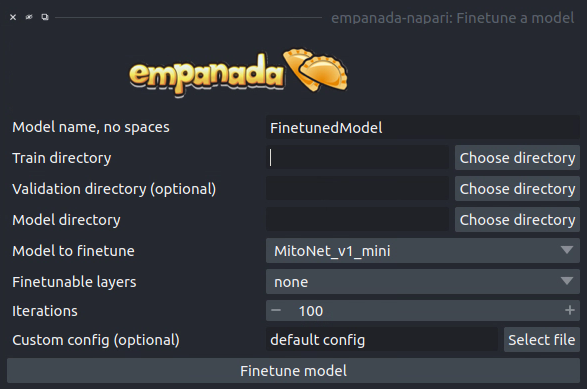
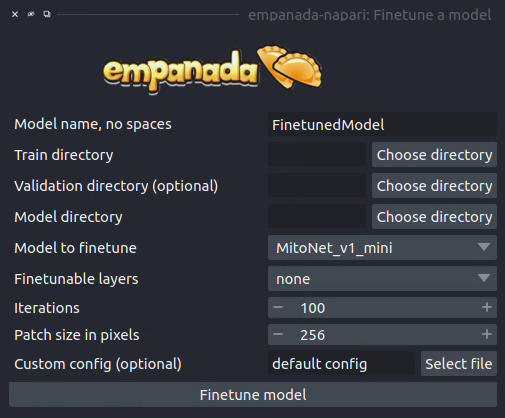
finished tutorials

diff --git a/docs/empanada-napari.rst b/docs/empanada-napari.rst
@@ -105,6 +105,9 @@ and greater robustness.
 modules. Models can be registered from .pth files or from web URLs. Useful for
 sharing models locally or over the internet.
 
+`Get model info`_: Get information about registered models to help decide which one
+is appropriate for inference or finetuning. 
+
 Proofreading Tools
 ^^^^^^^^^^^^^^^^^^^^
 
@@ -167,6 +170,14 @@ on the workstation, then this parameter is ignored.
 **Use quantized model:** Whether to use a quantized version of the segmentation model.
 The quantized model only runs on CPU but uses ~4x less memory and runs 20-50% faster (depending
 on the model architecture). Results may be 1-2% worse than using the non-quantized version.
+
+**Output to layer:** If checked, the output of the model will be inserted into the given
+output layer (next argument). This argument is incompatible with Batch mode and will raise
+an error if both are checked.
+
+**output layer:** If Output to layer is checked, the output of the model will be inserted
+into this layer, otherwise a new layer will be created. The output layer must be the same
+shape as the image layer.
 
 See `Inference Best Practices`_ below for more usage notes.
 
@@ -455,6 +466,10 @@ finetuning.
 
 **Iterations:** Number of iterations to finetune the model.
 
+**Patch size in pixels:** Patch size in pixels to use for random cropping of the image during finetuning.
+Should be divisible by 16 for PanopticDeepLab model or 128 for PanopticBiFPN models. Use `Get model info`_ to
+check.
+
 **Custom config (optional):** Use a custom config file to set other training
 hyperparameters. `See here for a template to modify <https://github.com/volume-em/empanada-napari/blob/train/custom_configs/custom_finetuning.yaml>`_.
 
@@ -507,8 +522,14 @@ training. Ignored if **Use CEM pretrained weights** isn't checked.
 
 **Iterations:** Number of iterations to train the model.
 
+**Patch size in pixels:** Patch size in pixels to use for random cropping of the image during finetuning.
+Should be divisible by 16 for PanopticDeepLab model or 128 for PanopticBiFPN models.
+
 **Custom config (optional):** Use a custom config file to set other model and training
 hyperparameters. `See here for a template to modify <https://github.com/volume-em/empanada-napari/blob/train/custom_configs/custom_training_pdl.yaml>`_.
+
+**Description:** Free form text description of the model including details about the training data, model purpose,
+and other relevant information. 
 
 Register new model
 ====================
@@ -546,6 +567,24 @@ If the path/url given in the config file is correct this is unnecessary.
 
   Removing models is manual. Simply delete or move the config file from `~/.empanada/configs`.
 
+Get model info
+====================
+
+.. image:: _static/get_info.png
+  :align: center
+  :width: 500px
+  :alt: Dialog for the get info module.
+
+Results
+^^^^^^^^^^^^^
+
+Prints information about the model to the terminal.
+
+Parameters
+^^^^^^^^^^^^^^^^
+
+**Model name:** Name of the model to get information about. 
+  
 Merge and Delete labels
 =============================
 
@@ -625,7 +664,7 @@ Tutorials
 Inference on 2D images
 ^^^^^^^^^^^^^^^^^^^^^^^^
 
-To get started, `download some example TEM images <https://www.dropbox.com/s/t9z8v2j06ttlhng/empanada_tem.zip?dl=1>`_.
+To get started, `download some example TEM images <https://www.dropbox.com/s/t9z8v2j06ttlhng/empanada_tem.zip?dl=0>`_.
 
 If you installed napari into a virtual environment as suggested in `Installation`_, be sure to activate it::
 
@@ -666,7 +705,7 @@ should look something like this (click the image for high-res):
 
 .. image:: _static/compare_2d_full.png
   :align: center
-  :width: 800px
+  :width: 100%
 
 The results are best without any downsampling but are still quite good even with 4x downsampling. As a rule, too
 much downsampling will result in more false positive detections and more false negatives
@@ -676,7 +715,7 @@ As a counterpoint look at the effect of downsampling on the second image in the 
 
 .. image:: _static/downsampling_better.png
   :align: center
-  :width: 600px
+  :width: 100%
 
 Here downsampling by a factor of 2 significantly reduces oversplitting errors and results in a better
 pixel-level segmentation. Plus, the smaller image size means that model inference will
@@ -697,19 +736,19 @@ better segmentation.
 
 .. image:: _static/mini_compare.png
   :align: center
-  :width: 600px
+  :width: 100%
 
 
 Using Batch Mode
 """""""""""""""""""""""""""
 
-Batch mode let's you run inference with a given configuration on all images in the
-stack. Running with the options shown below will create 5 segmentation layers (i.e.,
-one for each image).
-
 .. image:: _static/select_batch_mode.png
   :align: left
   :width: 50%
+
+Batch mode let's you run inference with a given configuration on all images in the
+stack. Running with the options shown on left will create 5 segmentation layers (i.e.,
+one for each image).
 
 
 Proofreading in 2D
@@ -724,7 +763,7 @@ panel (**a**). Paint and erase options are denoted by the blue and red arrows in
 
 .. image:: _static/paint_erase.png
   :align: center
-  :width: 800px
+  :width: 100%
 
 To run merge, split, and delete operations, create a new points layer (red arrow in panel **b**).
 Place points by clicking the circle with a plus sign (panel **a**) and clicking in the viewer window.
@@ -741,7 +780,7 @@ Repeat the merge operation by placing the four dots shown in the top right of th
 
 .. image:: _static/merge_split.png
   :align: center
-  :width: 800px
+  :width: 100%
 
 
 Exporting
@@ -778,7 +817,7 @@ Select all the layers to export and save them to a new folder:
 Inference on volumetric data
 ^^^^^^^^^^^^^^^^^^^^^^^^^^^^^^^
 
-To get started, `download an example FIBSEM dataset <https://www.dropbox.com/s/2gu3go2puzc47ip/hela_cell_em.tif?dl=1>`_.
+To get started, `download an example HeLa cell FIBSEM dataset <https://www.dropbox.com/s/2gu3go2puzc47ip/hela_cell_em.tif?dl=0>`_.
 
 If you installed napari into a virtual environment as suggested in `Installation`_, be sure to activate it::
 
@@ -883,5 +922,204 @@ To save, simply select one or more layers and "Save selected layers":
   them – they're already saved in the directory you picked.
 
 
-Finetuning and Training models
+Finetuning an existing model
 ^^^^^^^^^^^^^^^^^^^^^^^^^^^^^^^^
+
+To get started, `download an example C. Elegans FIBSEM dataset <https://www.dropbox.com/s/hm8xg8n4raio99q/c_elegans_em.tif?dl=0>`_
+and `some instance annotations <https://www.dropbox.com/s/qd8872r6cumbya2/c_elegans_mitos.zip?dl=0>`_. Unzip the annotations.
+
+If you installed napari into a virtual environment as suggested in `Installation`_, be sure to activate it::
+
+    $ conda activate empanada
+
+Launch napari::
+
+    $ napari
+
+Loading Data
+""""""""""""""
+
+Drag and drop the c_elegans_em.tif file into the napari window.
+
+Choosing a model
+""""""""""""""""""""""""
+
+First, decide which model to finetune by using the `Get model info`_ module, selecting a model from
+the dropdown list, and clicking the "Print info to terminal" button. For this tutorial let's have
+a look at the MitoNet_v1_mini model:
+
+.. image:: _static/model_info.png
+  :align: center
+  :width: 100%
+
+Looking at the finetuning instructions tells us that this model expects image patches
+that are divisible by 128 and that it segments a single instance class: mitochondria.
+It also tells us that we should start annotation with label 1 for the first mitochondrion
+and increment by 1 for each subsequent mitochondrion.
+
+Picking training data
+""""""""""""""""""""""""
+
+Open the `Pick training patches`_ and `Store training dataset`_ modules (green arrows). It's possible
+to pick patches randomly from the entire volume or from a particular ROI by placing points. For example,
+let's place 2 points on areas that we think may be difficult to segment. First, create a points layer 
+(red arrow bottom left), switch to point add mode (blue circle with + sign in middle left), and then
+click to place points in the viewer. Now, we'll use the `Pick training patches`_ module to pick
+16 patches of size 256x256, because this data has isotropic voxels we'll also check the "Pick from
+xy, xz, or yz" box. The first 2 patches selected will be from the points that we placed, the other
+14 patches will be randomly picked from the volume.
+
+For 3D datasets, the patches are output as flipbooks (short stacks of 5 images). Only the middle (third image)
+in each flipbook should be annotated, the other images are there to provide some 3D context. At the bottom of the
+viewer you'll see that there are two sliders. The top one scrolls through the stack of images and the bottom one 
+scrolls through the flipbooks. Make sure all annotations are made on slice "2" of the top slider (bottom right panel).
+
+See the next section for how to annotate flipbooks. Once all images have been annotated, select the appropriate flipbook 
+image and corresponding labels layer then click the "Save flipbooks" button (middle right panel).
+
+.. note::
+
+  Finetuning requires at least 16 training patches to be annotated. They can be completed in batches though,
+  the Store training dataset module will append them to an existing dataset if the directory and dataset name
+  match.
+
+
+.. image:: _static/picked_patches.png
+  :align: center
+  :width: 100%
+
+Annotating training data
+""""""""""""""""""""""""""
+
+To avoid confusion it's best to hide any layers other than the flipbook image and labels layer.
+
+It's possible to use an existing model to get initial segmentation for cleanup. To do this,
+open the `2D Inference (Parameter Testing)`_ module, check the "Output to layer" box, and
+select the flipbook labels layer "c_elegans_em_flipbooks_labels". Make sure you're on the third slice
+of a flipbook and click "Run 2D Inference". This will insert the segmentation into the labels layer.
+You can then paint and erase labels following `Proofreading in 2D`_. HOWEVER, merge, split, and delete
+proofreading tools cannot be used because all flipbook segmentations are stored in the same labels
+layer! (We'll investigate ways to remove this restriction in the future. One work around is to pick
+one patch at a time for annotation, store it, and repeat until you reach 16).
+
+.. image:: _static/ft_annotate.png
+  :align: center
+  :width: 600px
+
+.. note::
+
+  If you use the settings shown in the figure above, you'll notice that the segmentation labels
+  start at 1001. This is OK when the model only has one instance class, but if you have multiple classes
+  then you'll have to make sure that the "Max objects per class" field is equal to the label divisor printed
+  from `Get model info`_. The relevant line says, "Use a label divisor of {label_divisor}". The default label divisor
+  for models trained in empanada is 1000. Anytime the label divisor is "None" you don't have to worry about which labels
+  you use so long as they're unique for each instance.
+
+Finetuning the model
+"""""""""""""""""""""""""
+
+Using the annotations that you downloaded, finetuning a model is simple. We'll use the same annotations
+for training and validation, though you could easily create a separate validation set if desired. Setting the
+"Finetubale layers" to "all" means that all encoder layers will be finetuned. This generally gives better
+results, but training with fewer finetunable layers will require less memory and time. 100 training iterations
+is a good starting point, but increasing the number of iterations may yield better results. For a fairly general
+model like MitoNet, training for more than 500 iterations shouldn't be necessary unless you've annotated a lot
+of images.
+
+.. image:: _static/ft_example.png
+  :align: center
+  :width: 100%
+
+Once finetuning finishes, the model will appear in dropdowns across all other modules in the plugin. If it
+doesn't, close the module and reopen it. Unsurprisingly, we see that a finetuned model works much better on 
+this data than vanilla MitoNet. See the `Inference on 2D images`_ and `Inference on volumetric data`_  
+for details on how to use the model for inference. 
+
+Training a panoptic segmentation model
+^^^^^^^^^^^^^^^^^^^^^^^^^^^^^^^^^^^^^^^^^
+
+To get started, `download an example mouse liver FIBSEM dataset <https://www.dropbox.com/s/za9q1h2yancx1ow/openorganelle_mouse_liver_roi.tif?dl=0>`_
+and `some panoptic annotations <https://www.dropbox.com/s/c4veu311mvk8ujx/mouse_liver_er_mito_nuclei.zip?dl=0>`_. Unzip the annotations.
+
+If you installed napari into a virtual environment as suggested in `Installation`_, be sure to activate it::
+
+    $ conda activate empanada
+
+Launch napari::
+
+    $ napari
+
+Loading Data
+""""""""""""""
+
+Drag and drop the openorganelle_mouse_liver_roi.tif file into the napari window.
+
+Picking panoptic data
+""""""""""""""""""""""""
+
+See `Picking training data`_ in the `Finetuning an existing model`_ tutorial. The same instructions apply.
+
+Annotating panoptic data
+""""""""""""""""""""""""""
+
+See `Annotating training data`_ in the `Finetuning an existing model`_ tutorial to get started.
+The key difference between annotation for instance and panoptic segmentation is the use of a label divisor.
+The label divisor separates semantic and instance classes and allows for multiple objects to be segmented
+for each instance class. 
+
+For this tutorial, we're interested in segmenting ER (semantic), mitochondria (instance), and nucleus (semantic). 
+The only requirement for the label divisor is that it is greater than the number of mitochondrial instances in any given patch.
+To be very comfortable let's use a label divisor of 1,000, though 100 would be fine as well. Remember what you choose,
+you'll need it later when training.
+
+First, we'll label ER. Set the label to 1001 and paint all the ER:
+
+.. image:: _static/paint_er.png
+  :align: center
+  :width: 600px
+
+Second, we'll paint each mitchondrial instance. Set the label to 2001 and paint the first mitochondrion, then
+increase the label to 2002 and paint the second mitochondrion.
+
+.. image:: _static/paint_mito.png
+  :align: center
+  :width: 600px
+
+Finally, we'll paint the nucleus. Set the label to 3001 and paint all the nuclei.
+
+.. image:: _static/paint_nuclei.png
+  :align: center
+  :width: 600px
+
+
+Training the model
+""""""""""""""""""""
+
+Open the `Train a model`_ module and fill in the train, validation, and model directory fields.
+For the "Dataset labels" field, each line correspond to a unique segmentation class. In this case,
+the first segmentation class is ER, so the first line should be "1,er,semantic" (the order is class label,
+class name, segmentation type). Class label should always be an integer, the class name can be any string,
+and the segmentation type must be either "semantic" or "instance". The second and third lines are then 
+"2,mito,instance" and "3,nucleus,semantic", respectively. For the training data provided the label divisor is 1000.
+
+While using CEM pretrained weights will significantly reduce the amount of time required to train a robust
+and performant model, multiclass segmentation classes typically need to train for a longer time. For this
+case 500 iterations may be enough, but 1,000 might be better. You should never need to train for more than
+10,000 iterations.
+
+.. image:: _static/panoptic_train.png
+  :align: center
+  :width: 600px
+
+Once training finishes, the model will appear in dropdowns across all other modules in the plugin. If it
+doesn't, close the module and reopen it. Here's the result:
+
+.. image:: _static/panoptic_result.png
+  :align: center
+  :width: 600px
+
+
+See the `Inference on 2D images`_ and `Inference on volumetric data`_  for details on how to use the model for inference. 
+
+
+
